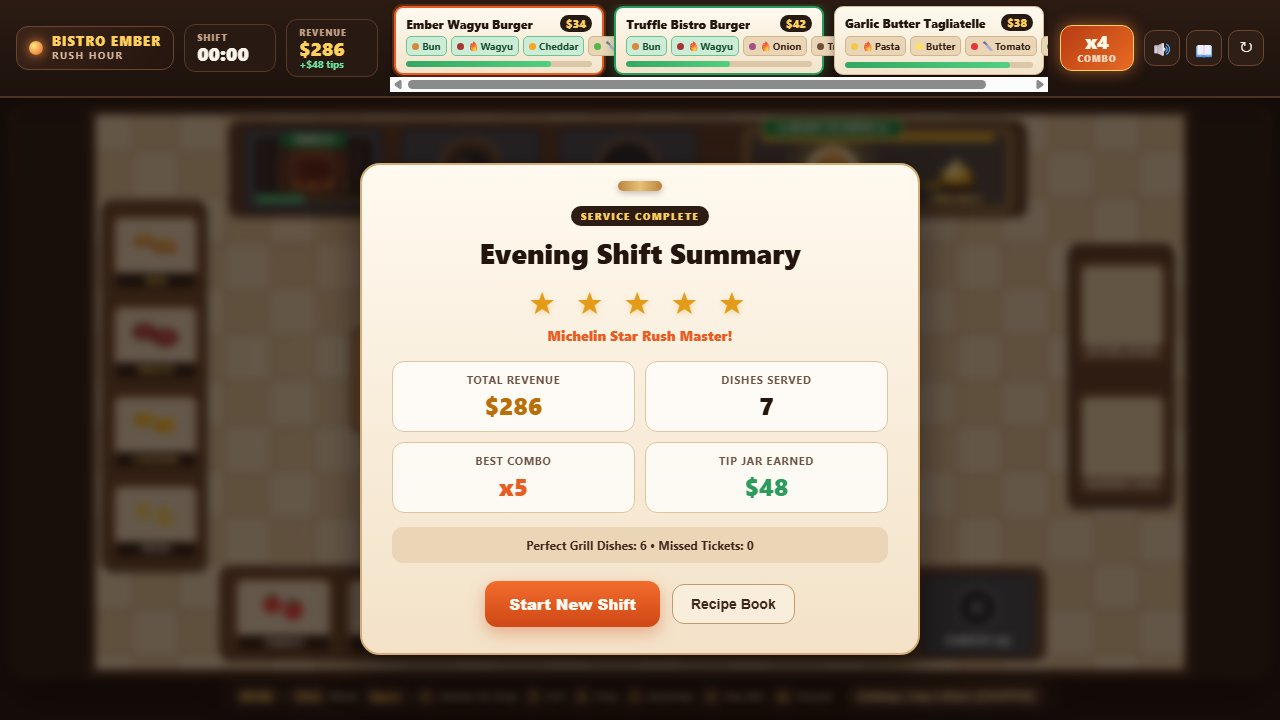
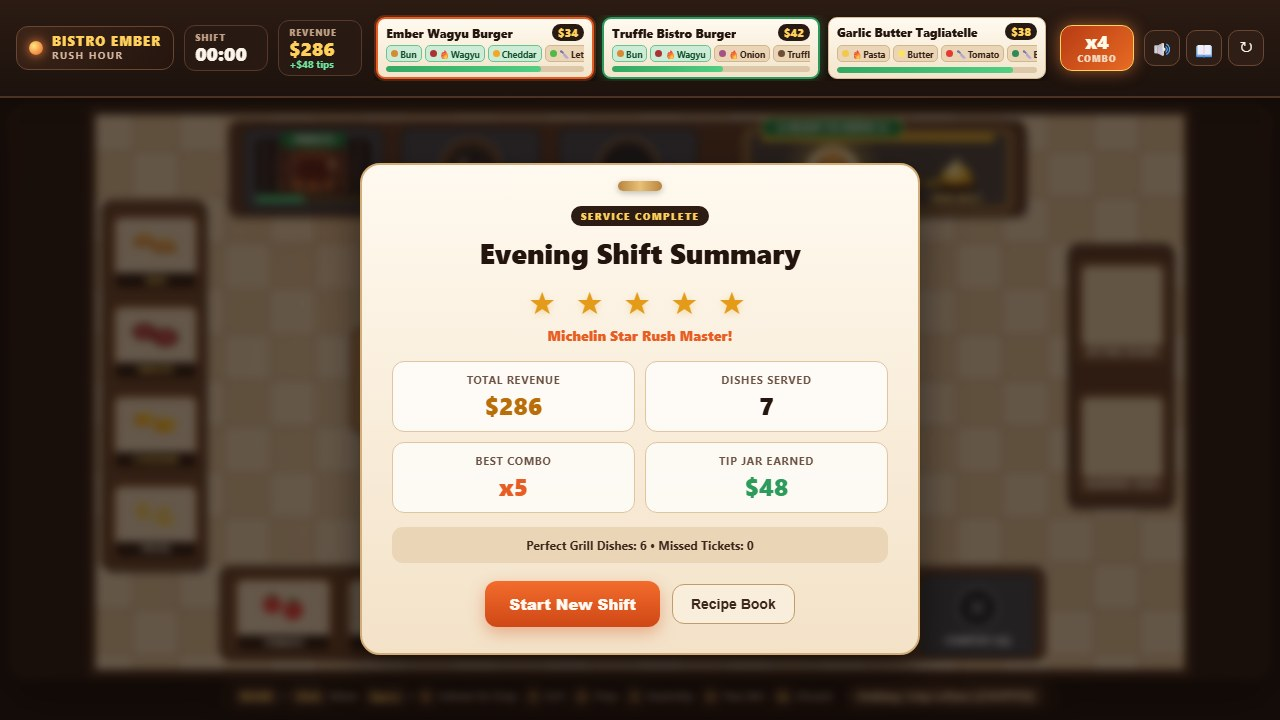
fix: showcase active kitchen as cover and remove order rail overflow

Changed region(s): [[0.1562, 0.0, 0.8438, 0.1528]]

diff --git a/game/styles.css b/game/styles.css
@@ -98,8 +98,8 @@ html, body {
   display: flex;
   flex-direction: column;
   justify-content: center;
-  min-width: 92px;
-  padding: 6px 12px;
+  min-width: 84px;
+  padding: 5px 10px;
   border-radius: 11px;
   background: #281912;
   border: 1px solid #57392a;
@@ -149,11 +149,11 @@ html, body {
 .order-rail {
   display: flex;
   align-items: stretch;
-  gap: 10px;
+  gap: 8px;
   flex: 1;
   min-width: 0;
-  overflow-x: auto;
-  padding: 2px 4px;
+  overflow: hidden;
+  padding: 2px;
 }
 
 .order-ticket {
@@ -161,10 +161,10 @@ html, body {
   display: flex;
   flex-direction: column;
   justify-content: space-between;
-  min-width: 205px;
-  max-width: 245px;
-  flex: 1 1 215px;
-  padding: 7px 10px 6px;
+  min-width: 195px;
+  max-width: 240px;
+  flex: 1 1 195px;
+  padding: 5px 8px;
   background: linear-gradient(180deg, #fffaf0 0%, #f3e4cb 100%);
   color: var(--ink-dark);
   border-radius: 9px;
@@ -219,23 +219,25 @@ html, body {
 .ticket-ingredients {
   display: flex;
   align-items: center;
-  gap: 4px;
+  gap: 3px;
   flex-wrap: nowrap;
-  margin-bottom: 5px;
+  margin-bottom: 4px;
+  overflow: hidden;
 }
 
 .ing-chip {
   display: inline-flex;
   align-items: center;
-  gap: 3px;
-  padding: 2px 5px;
+  gap: 2px;
+  padding: 1.5px 4px;
   border-radius: 5px;
-  font-size: 10px;
+  font-size: 9px;
   font-weight: 700;
   background: #ead5b6;
   color: #362216;
   border: 1px solid #d1b58d;
   white-space: nowrap;
+  letter-spacing: -0.01em;
 }
 
 .ing-chip.done {

diff --git a/README.md b/README.md
@@ -16,7 +16,7 @@
   - **Assembly Island**: Visual multi-layer dish stacking with live recipe match previews.
   - **Hot Pass & Golden Bell**: Glowing `READY TO SERVE!` plating counter with service bell chime.
 - **Dual Input Support**: Full keyboard (`WASD` / `Arrows`, `Space` / `E` interact, `1-4` quick station dispatch, `Q` discard) and mouse click-to-move / click-station controls.
-- **Deterministic URL Showcase Modes**: Supports `?shot=start|play|end&seed=1`.
+- **Deterministic URL Showcase Modes**: Supports `?shot=start|play|end&seed=1` (cover screenshot order: `1-play.jpg`, `2-start.jpg`, `3-end.jpg`).
 
 ## Local Play
 
